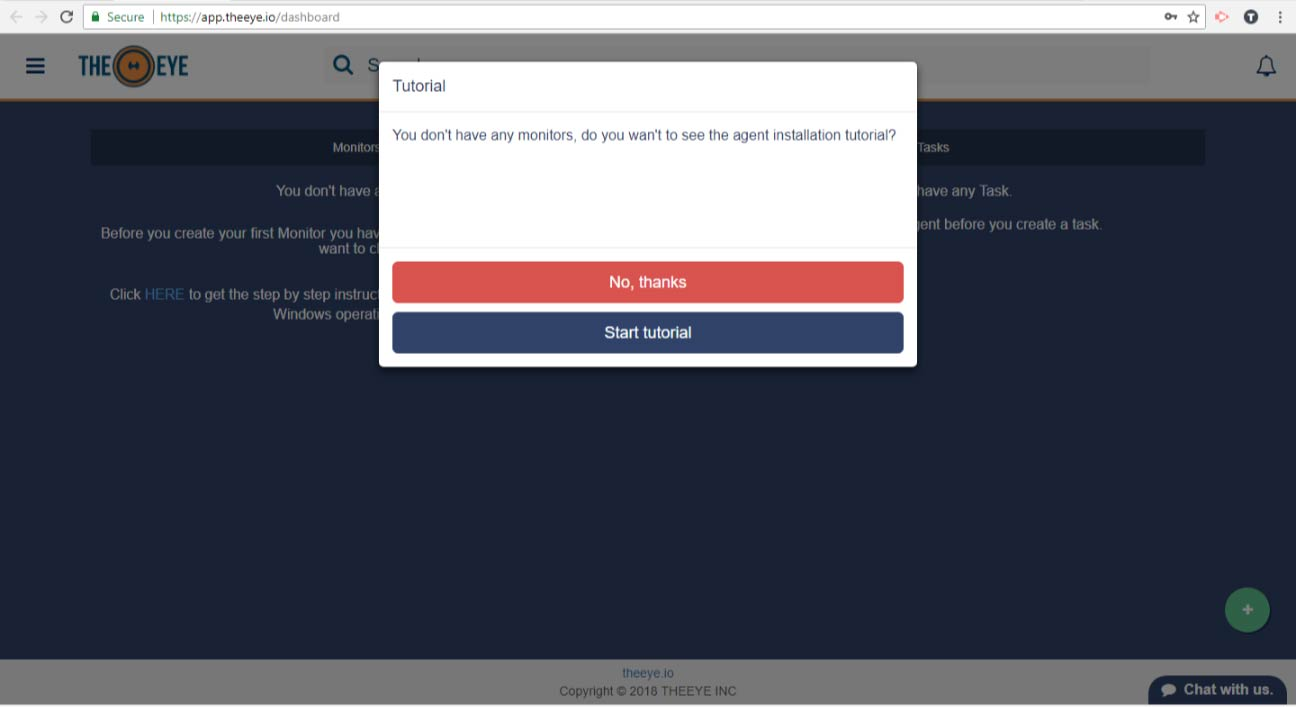
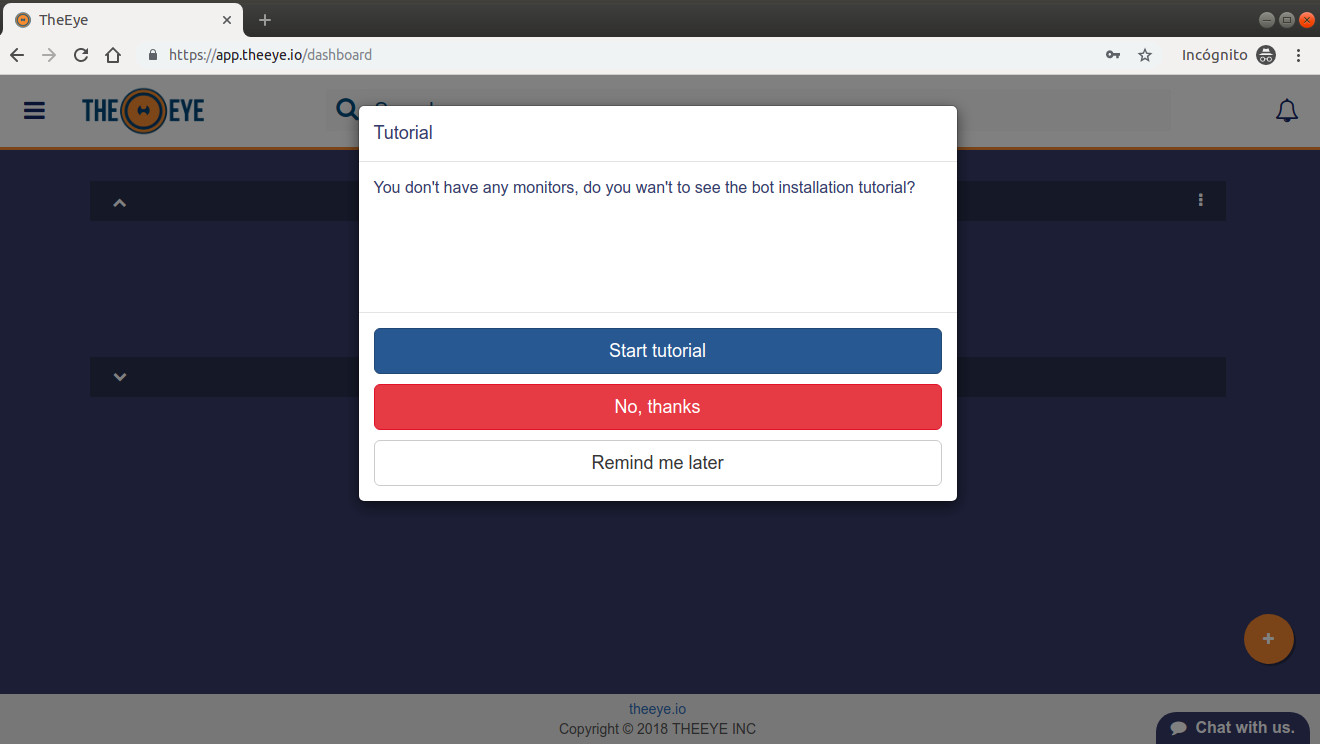
docs firts step update
nuevas imagenes
nueva seccion de ejemplo con script y request

diff --git a/theeye-docs/docs/first-steps.md b/theeye-docs/docs/first-steps.md
@@ -1,46 +1,53 @@
-# First Steps
+# First Steps to start using TheEye:
 
 [![theeye.io](/images/logo-theeye-theOeye-logo2.png)](https://theeye.io/en/index.html)
 
-## To start using TheEye you will need to:
+##  You will need a User account and organization
+1. If you have an user account, enter in [https://app.theeye.io/login](https://app.theeye.io/login)
+2. If you do not have a user account, enter here [https://app.theeye.io/register](https://app.theeye.io/register) and register one.
+      1. After registering your account we send you a confirmation email.
+      2. Activate your account and start automating with TheEye. 
+         1. Register your account username.
+         2. Register the name of your organization.
 
-1. Have a user account. If you don't have one go to [https://app.theeye.io/register](https://app.theeye.io/register) and create one.
-2. Organization
-    An organization in The Eye is an entity that comprises multiple objects, such as multiple hosts or a sequence of automated tasks and triggers, that has a particular purpose.
-3. Start the self-provided Bot or Install [one ](/core-concepts/the-eye-agent/)on each server you would like to perform actions or automate from.
-4. Create your first resource from TheEye Web.
+An **organization** in The Eye is an entity that comprises multiple objects, such as multiple hosts or a sequence of automated tasks and triggers, that has a particular purpose.
 
 Once you've activated your user account, you'll see this Dashboard after login:
 
-![first time login](/images/firsttimelogin.jpg)
+![first time login](/images/FirstTimeLogin.jpg)
 
-The Tutorial will guide you through the installation process of a [Bot](/core-concepts/the-eye-agent/) and will show you how to create a task.
+## Build your playground
+The Tutorial will guide you through the installation process of a **Bots** and will show you how to create a **task**.
 
+### I came for the **bots**!
+In The Eye you would like to perform actions or automate with **bots**
+
+Start the self-provided Bot or Install one on each server.
+
+#### Just give me a bot!
 In case you don't want to follow the tutorial, you can install the Bots on your own following instructions from Settings-&gt;Installer in the side menu.
 
-![settings](/images/settings-1.jpg)
-
-#### Quick start
+![settings](/images/Settings.jpg)
 
 Launch the self provided Bot, and begin automating processes.
 
 ![Settings Menu \(Installer\)](/images/startbot.jpg)
 
-### **Bot Installation** 
+#### Install your own bot, and then a hive!!
 
-#### **\(You can skip this section if you're using the self-provided Bot\)**
+**\(You can skip this section if you're using the self-provided Bot\)**
 
 If it is the first time you access TheEye Website, click the link in the monitors panel where says _"Click HERE to get the step by step instructions to install the Bot on Linux and Windows operating systems"_, otherwise go to _Settings_ in the left menu and get to the _Installation_ section. Installation instructions are provided for Linux and Windows systems.
 
-* Linux:
+##### Linux install:
 
 ![linux install](/images/linuxagentinstall-1.jpg)
 
-* Windows:
+##### Windows install:
 
 ![windows install](/images/windowsagentinstall-1.jpg)
 
-* Docker
+##### Docker install:
 
 ![docker install](/images/dockeragentinstall.jpg)
 
@@ -48,11 +55,79 @@ After each agent installation a new monitor is shown up in the Dashboard.
 
 For detailed installation information check the [Bot:install document](/core-concepts/the-eye-agent/)
 
-#### Check your first resource
+### Play with bots
+
+Let's do a small task just to play a little.
+
+We're going to have our bot report information to us. For this we will send information with a parameter, and the bot will make a query to a webservice to get the rest.
+
+** As a prerequisite you need a bots, so if you do not have one, install one following the steps above. **
+
+For this task we will follow the following steps from the dashboard:
+
+#### We create the resources
+- We create a task and the script associated with it
+    - Name: check_weather
+    - Bots: bots
+    - We create the argument
+        - type: Fixed Value
+        - value: Madrid
+            - This should be the name of the city on which we are going to check the weather.
+
+![tasks create](/images/firtsStepsTaskCreate.jpg)
+
+- Now we select to create scripts
+    - File name: check_weather.sh
+    - Copy the following code into the script editing window and save the changes.
+
+```
+#!/usr/bin/env bash
+
+## TheEye
+## For both Monitors and Tasks We need that your script ends by returning "normal" or "failure". 
+STATE="normal"
+
+# Our script
+REGION=$1;
+WEATHER=$(curl wttr.in/$REGION?format=3)
+echo "$WEATHER"
+
+## TheEye
+# Report state. Last line of this script will be the $STATE value
+if [ $? -ne 0 ]; then STATE="failure"; fi
+echo $STATE
+```
+
+![scripts create](/images/firtsStepsScriptsCreate.jpg)
+
+#### Let them run!
+
+Now in the Dashboard we will see our resources. We should have something like this:
+
+![scripts create](/images/resourcesList.jpg)
+
+If this is the case, let's play the "check_weather" script inside the workflow.
+
+Then we will be able to see the results report of the task.
+
+![tasks report](/images/taskReport.jpg)
+
+In this report we can see the STATE result as well as the parameters sent.
+
+We will be able to have an extended repote by clicking on "More info"
+
+![tasks report more](/images/taskReportMore.jpg)
+
+We hope this document has been helpful. You can find more information in the documentation system. In case you need assistance, contact our support team.
+
+Check the [Support team information](/support/) for more details.
+
+## Understanding the parts
+### Dashboard: Check your first resource
 
 Check the Dashboard view after login, you should see "All up and running" in the monitors panel.
 
-#### Users
+### Users
 
 TheEye provides six different user roles. You can create users on the go with the appropiate role. See the [Users Management Documentation](/user-management/) for more details.
 
@@ -94,7 +169,7 @@ The webhook you created can be used as a trigger for other resources \(e.g. You 
 
 ![webhook](/images/webhook.gif)
 
-### Workflow
+#### Workflow
 
 Workflow connects your tasks together to automate complex or dependent processes.
 
